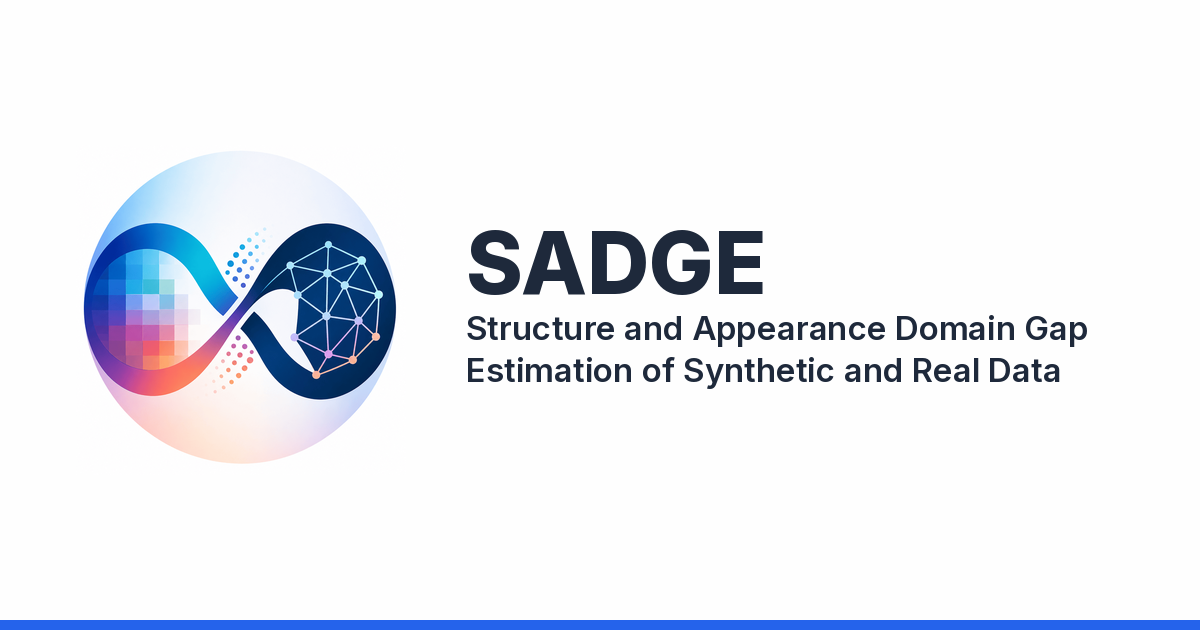
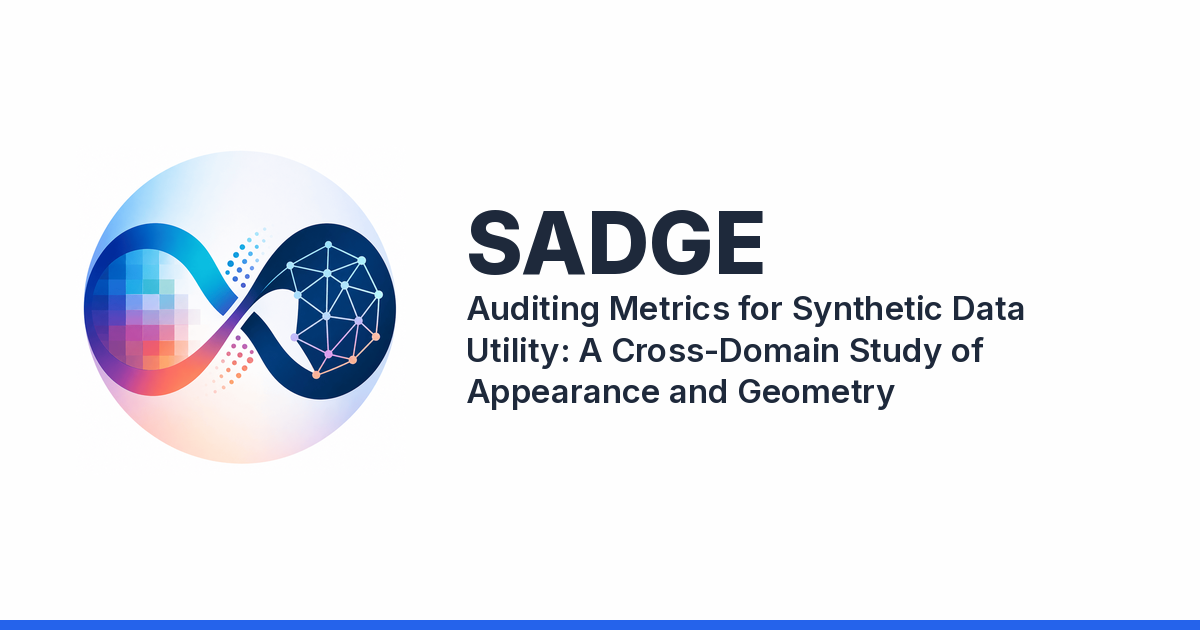
Update SADGE title authors acknowledgments and reproduction link

Changed region(s): [[0.37, 0.3317, 0.925, 0.6635]]

diff --git a/index.html b/index.html
@@ -5,23 +5,23 @@
   <meta name="viewport" content="width=device-width, initial-scale=1">
 
   <!-- Primary Meta Tags -->
-  <meta name="title" content="SADGE: Structure and Appearance Domain Gap Estimation of Synthetic and Real Data">
+  <meta name="title" content="Auditing Metrics for Synthetic Data Utility: A Cross-Domain Study of Appearance and Geometry">
   <meta name="description" content="A quantitative similarity metric that predicts the downstream performance of synthetic image datasets without model training, by fusing appearance and geometry signals.">
   <meta name="keywords" content="synthetic data, domain gap, sim-to-real, appearance similarity, geometric similarity, downstream prediction, FID, DINOv3, MASt3R, SigLIP2, computer vision">
-  <meta name="author" content="Patryk Bartkowiak, Bartosz Kotrys, Dominik L. Michels, Sören Pirk, Wojtek Palubicki">
+  <meta name="author" content="Patryk Bartkowiak, Dominik L. Michels, Sören Pirk, Wojtek Palubicki">
   <meta name="robots" content="index, follow">
   <meta name="language" content="English">
 
   <!-- Open Graph / Facebook -->
   <meta property="og:type" content="article">
   <meta property="og:site_name" content="SADGE Metric">
-  <meta property="og:title" content="SADGE: Structure and Appearance Domain Gap Estimation of Synthetic and Real Data">
+  <meta property="og:title" content="Auditing Metrics for Synthetic Data Utility: A Cross-Domain Study of Appearance and Geometry">
   <meta property="og:description" content="A quantitative similarity metric that predicts the downstream performance of synthetic image datasets without model training, by fusing appearance and geometry signals.">
   <meta property="og:url" content="https://sadge-metric.github.io/">
   <meta property="og:image" content="https://sadge-metric.github.io/static/images/social_preview.png">
   <meta property="og:image:width" content="1200">
   <meta property="og:image:height" content="630">
-  <meta property="og:image:alt" content="SADGE: Structure and Appearance Domain Gap Estimation of Synthetic and Real Data">
+  <meta property="og:image:alt" content="Auditing Metrics for Synthetic Data Utility: A Cross-Domain Study of Appearance and Geometry">
   <meta property="article:published_time" content="2026-01-01T00:00:00.000Z">
   <meta property="article:author" content="Patryk Bartkowiak">
   <meta property="article:section" content="Research">
@@ -31,15 +31,14 @@
 
   <!-- Twitter -->
   <meta name="twitter:card" content="summary_large_image">
-  <meta name="twitter:title" content="SADGE: Structure and Appearance Domain Gap Estimation of Synthetic and Real Data">
+  <meta name="twitter:title" content="Auditing Metrics for Synthetic Data Utility: A Cross-Domain Study of Appearance and Geometry">
   <meta name="twitter:description" content="A quantitative similarity metric that predicts the downstream performance of synthetic image datasets without model training, by fusing appearance and geometry signals.">
   <meta name="twitter:image" content="https://sadge-metric.github.io/static/images/social_preview.png">
-  <meta name="twitter:image:alt" content="SADGE: Structure and Appearance Domain Gap Estimation of Synthetic and Real Data">
+  <meta name="twitter:image:alt" content="Auditing Metrics for Synthetic Data Utility: A Cross-Domain Study of Appearance and Geometry">
 
   <!-- Academic/Research Specific -->
-  <meta name="citation_title" content="SADGE: Structure and Appearance Domain Gap Estimation of Synthetic and Real Data">
+  <meta name="citation_title" content="Auditing Metrics for Synthetic Data Utility: A Cross-Domain Study of Appearance and Geometry">
   <meta name="citation_author" content="Bartkowiak, Patryk">
-  <meta name="citation_author" content="Kotrys, Bartosz">
   <meta name="citation_author" content="Michels, Dominik">
   <meta name="citation_author" content="Pirk, Sören">
   <meta name="citation_author" content="Palubicki, Wojtek">
@@ -64,7 +63,7 @@
   <link rel="preconnect" href="https://cdn.jsdelivr.net">
 
 
-  <title>SADGE: Structure and Appearance Domain Gap Estimation of Synthetic and Real Data</title>
+  <title>Auditing Metrics for Synthetic Data Utility: A Cross-Domain Study of Appearance and Geometry</title>
 
   <!-- Favicon and App Icons -->
   <link rel="icon" type="image/x-icon" href="static/images/favicon.ico">
@@ -104,7 +103,7 @@
   {
     "@context": "https://schema.org",
     "@type": "ScholarlyArticle",
-    "headline": "SADGE: Structure and Appearance Domain Gap Estimation of Synthetic and Real Data",
+    "headline": "Auditing Metrics for Synthetic Data Utility: A Cross-Domain Study of Appearance and Geometry",
     "description": "A quantitative similarity metric that predicts the downstream performance of synthetic image datasets without model training, by fusing appearance and geometry signals.",
     "author": [
       {
@@ -113,14 +112,6 @@
         "affiliation": {
           "@type": "Organization",
           "name": "Adam Mickiewicz University"
-        }
-      },
-      {
-        "@type": "Person",
-        "name": "Bartosz Kotrys",
-        "affiliation": {
-          "@type": "Organization",
-          "name": "ArtiCollect"
         }
       },
       {
@@ -152,7 +143,15 @@
     "datePublished": "2026-01-01",
     "url": "https://sadge-metric.github.io/",
     "image": "https://sadge-metric.github.io/static/images/sadge-diagram.png",
-    "keywords": ["synthetic data", "domain gap", "sim-to-real", "appearance similarity", "geometric similarity", "downstream prediction", "computer vision"],
+    "keywords": [
+      "synthetic data",
+      "domain gap",
+      "sim-to-real",
+      "appearance similarity",
+      "geometric similarity",
+      "downstream prediction",
+      "computer vision"
+    ],
     "isAccessibleForFree": true,
     "license": "https://creativecommons.org/licenses/by/4.0/",
     "mainEntity": {
@@ -228,26 +227,31 @@
       <div class="container is-max-desktop">
         <div class="columns is-centered">
           <div class="column has-text-centered">
-            <h1 class="title is-1 publication-title">SADGE: Structure and Appearance Domain Gap Estimation of Synthetic and Real Data</h1>
+            <h1 class="title is-1 publication-title">Auditing Metrics for Synthetic Data Utility: A Cross-Domain Study of Appearance and Geometry</h1>
             <div class="is-size-5 publication-authors">
               <span class="author-block">
                 <a href="https://patrykbart.faculty.wmi.amu.edu.pl/" target="_blank">Patryk Bartkowiak</a><sup>1</sup>,</span>
               <span class="author-block">
-                <a href="https://www.linkedin.com/in/bkotrys/" target="_blank">Bartosz Kotrys</a><sup>2</sup>,</span>
+                <a href="https://dmichels.de/" target="_blank">Dominik L. Michels</a><sup>2</sup>,</span>
               <span class="author-block">
-                <a href="https://dmichels.de/" target="_blank">Dominik L. Michels</a><sup>3</sup>,</span>
-              <span class="author-block">
-                <a href="https://www.uni-kiel.de/en/person/pirk-soeren-59195" target="_blank">Sören Pirk</a><sup>4</sup>,</span>
+                <a href="https://www.uni-kiel.de/en/person/pirk-soeren-59195" target="_blank">Sören Pirk</a><sup>3</sup>,</span>
               <span class="author-block">
                 <a href="https://wp.faculty.wmi.amu.edu.pl/" target="_blank">Wojtek Palubicki</a><sup>1</sup></span>
           </div>
 
           <div class="is-size-5 publication-authors">
-            <span class="author-block"><sup>1</sup>Adam Mickiewicz University, <sup>2</sup>ArtiCollect, <sup>3</sup>KAUST, <sup>4</sup>Kiel University</span>
+            <span class="author-block"><sup>1</sup>Adam Mickiewicz University, <sup>2</sup>KAUST, <sup>3</sup>Kiel University</span>
           </div>
 
                   <div class="column has-text-centered">
                     <div class="publication-links">
+                      <span class="link-block">
+                        <a href="https://github.com/SADGE-metric/sadge-reproduction" target="_blank" rel="noopener noreferrer"
+                        class="external-link button is-normal is-rounded is-dark">
+                        <span class="icon"><i class="fab fa-github"></i></span>
+                        <span>Code</span>
+                        </a>
+                      </span>
                       <span class="link-block">
                         <a href="https://arxiv.org/abs/2605.22467" target="_blank"
                         class="external-link button is-normal is-rounded is-dark">
@@ -262,13 +266,6 @@
                       class="external-link button is-normal is-rounded is-dark">
                       <span class="icon"><i class="fas fa-file-pdf"></i></span>
                       <span>Supplementary</span>
-                      </a>
-                    </span>
-                    <span class="link-block">
-                      <a href="https://github.com/sadge-metric/sadge" target="_blank"
-                      class="external-link button is-normal is-rounded is-dark">
-                        <span class="icon"><i class="fab fa-github"></i></span>
-                        <span>Code</span>
                       </a>
                     </span>
                     -->
@@ -410,14 +407,22 @@ End paper poster -->
   <div class="hero-body">
     <div class="container is-max-desktop">
       <div class="columns is-centered has-text-centered">
-        <div class="column is-four-fifths">
+        <div class="column">
           <h2 class="title is-3">Acknowledgments</h2>
-          <a href="https://articollect.io" target="_blank">
-            <img src="static/images/articollect-logo.png" alt="ArtiCollect" loading="lazy" style="max-width: 260px; height: auto; margin: 0 0 1.25rem;">
-          </a>
-          <div class="content has-text-centered">
+          <div class="ack-logos">
+            <a href="https://arena.ai4eosc.eu/" target="_blank" class="ack-eosc">
+              <img src="static/images/eosc-arena-logo.png" alt="EOSC-ARENA" loading="lazy">
+            </a>
+            <a href="https://www.pcss.pl/" target="_blank" rel="noopener noreferrer" class="ack-pcss">
+              <img src="static/images/pcss-logo.png" alt="Poznańskie Centrum Superkomputerowo-Sieciowe (PCSS)" width="200" height="73" loading="lazy">
+            </a>
+          </div>
+          <div class="content has-text-centered ack-text">
             <p>
-              This research was conducted in collaboration with <a href="https://articollect.io" target="_blank">ArtiCollect</a>, who funded the work, contributed to data collection, and provided domain expertise in art.
+              This work was supported by the European Union through the <a href="https://arena.ai4eosc.eu/" target="_blank">EOSC-ARENA</a> project (AI Research Enhancement through Networked Agents), Grant Agreement No.&nbsp;101292597.
+            </p>
+            <p>
+              The authors thank <a href="https://www.pcss.pl/" target="_blank" rel="noopener noreferrer">Poznańskie Centrum Superkomputerowo-Sieciowe (PCSS)</a> for providing the computational resources used in the experiments.
             </p>
           </div>
         </div>
@@ -439,8 +444,8 @@ End paper poster -->
       </button>
     </div>
     <pre id="bibtex-code"><code>@misc{bartkowiak2026sadgestructureappearancedomain,
-      title={SADGE: Structure and Appearance Domain Gap Estimation of Synthetic and Real Data},
-      author={Patryk Bartkowiak and Bartosz Kotrys and Dominik Michels and Sören Pirk and Wojtek Palubicki},
+      title={Auditing Metrics for Synthetic Data Utility: A Cross-Domain Study of Appearance and Geometry},
+      author={Patryk Bartkowiak and Dominik Michels and Sören Pirk and Wojtek Palubicki},
       year={2026},
       eprint={2605.22467},
       archivePrefix={arXiv},

diff --git a/static/css/index.css b/static/css/index.css
@@ -751,3 +751,20 @@ a:focus {
 
 
 
+
+/* Acknowledgment logos share an optical height and wrap on narrow screens. */
+.ack-logos {
+  display: flex;
+  flex-wrap: wrap;
+  align-items: center;
+  justify-content: center;
+  gap: 1.5rem 2rem;
+  margin: 0 0 1.5rem;
+}
+.ack-logos img { width: 100%; height: auto; display: block; }
+.ack-eosc { flex: 0 1 390px; }
+.ack-pcss { flex: 0 1 170px; }
+.ack-text { max-width: 48rem; margin: 0 auto; }
+@media screen and (min-width: 769px) {
+  .ack-logos { flex-wrap: nowrap; }
+}
